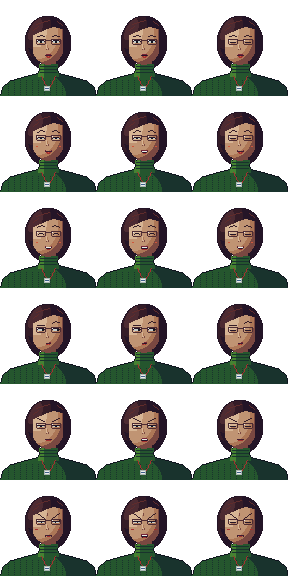
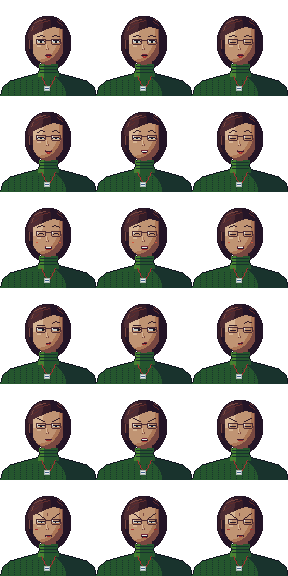
Кит после ревью: крупнее сцена на телефоне, блокнот шторкой, уход в шапке, эмоции различимее

diff --git a/src/game/ui/Showcase.tsx b/src/game/ui/Showcase.tsx
@@ -51,7 +51,7 @@ const CAST: Record<SceneId, Cast> = {
         { label: 'Оклад', value: '160 тыс.' },
         { label: 'Выход', value: '15 декабря' },
         { label: 'Жильё', value: 'квартира на год' },
-        { label: 'Переезд', value: 'через 3 месяца' },
+        { label: 'Переезд', value: 'через 3 мес.' },
       ],
     },
     name: 'Дарина Лукманова',
@@ -72,8 +72,8 @@ const ISSUES_BY_SCENE: Record<SceneId, typeof ISSUES> = {
   office: [
     { title: 'Оклад', options: ['140 тыс.', '150 тыс.', '160 тыс.', '170 тыс.', '180 тыс.'], points: [30, 24, 18, 10, 0] },
     { title: 'Выход', options: ['1 декабря', '15 декабря', '1 января', '15 января'], points: [20, 16, 6, 0] },
-    { title: 'Жильё', options: ['без жилья', 'компенсация', 'квартира на год'], points: [10, 4, 8] },
-    { title: 'Переезд', options: ['сразу', 'через 3 месяца', 'не оплачиваем'], points: [0, 6, 10] },
+    { title: 'Жильё', options: ['без жилья', 'компенсация', 'квартира'], points: [10, 4, 8] },
+    { title: 'Переезд', options: ['сразу', 'через 3 мес.', 'без оплаты'], points: [0, 6, 10] },
   ],
 }
 
@@ -81,7 +81,7 @@ const ISSUES = [
   { title: 'Цена за короб', options: ['212 ₽', '204 ₽', '196 ₽', '188 ₽', '180 ₽'], points: [0, 8, 16, 24, 32] },
   { title: 'Отсрочка платежа', options: ['по факту', '15 дней', '30 дней', '45 дней', '60 дней'], points: [0, 2, 4, 6, 8] },
   { title: 'Срочная допоставка', options: ['за 10 дней', 'за 7 дней', 'за 5 дней', 'за 3 дня', 'за 48 часов'], points: [0, 6, 13, 21, 28] },
-  { title: 'График отгрузок', options: ['раз в месяц', 'раз в две недели', 'раз в неделю'], points: [0, 12, 24] },
+  { title: 'График отгрузок', options: ['раз в месяц', 'раз в 2 недели', 'еженедельно'], points: [0, 12, 24] },
 ]
 
 const SWATCHES: { name: string; v: string; role: string }[] = [
@@ -107,6 +107,7 @@ export default function Showcase() {
   const [talking, setTalking] = useState(false)
   const [turn, setTurn] = useState(4)
   const [xray, setXray] = useState(true)
+  const [notebook, setNotebook] = useState(false)
   const [stamp, setStamp] = useState<null | 'deal' | 'walked' | 'timeout'>(null)
   const [picks, setPicks] = useState([1, 2, 2, 2])
   const [draft, setDraft] = useState('')
@@ -123,8 +124,11 @@ export default function Showcase() {
             <div className="sc-hud">
               <MeetingClock turn={turn} turnLimit={12} />
               <div className="sc-hud-actions">
-                <Button variant="ghost" icon="eye" aria-pressed={xray} onClick={() => setXray(!xray)}>
+                <Button variant={xray ? 'brass' : 'paper'} icon="eye" aria-pressed={xray} onClick={() => setXray(!xray)}>
                   Рентген
+                </Button>
+                <Button variant="ghost" icon="leave" className="sc-leave" aria-label="Встать и уйти">
+                  <span className="sc-leave-label">Уйти</span>
                 </Button>
               </div>
             </div>
@@ -155,17 +159,20 @@ export default function Showcase() {
                 <Button variant="brass" icon="send" type="submit">
                   Сказать
                 </Button>
-                <Button icon="notebook" className="sc-only-mobile">
-                  Блокнот
-                </Button>
-                <Button variant="stamp" icon="leave" className="sc-push-right">
-                  Встать и уйти
+                <Button
+                  icon="notebook"
+                  className="sc-only-mobile"
+                  aria-expanded={notebook}
+                  aria-controls="sc-side"
+                  onClick={() => setNotebook(!notebook)}
+                >
+                  {notebook ? 'Закрыть блокнот' : 'Блокнот'}
                 </Button>
               </div>
             </form>
           </div>
 
-          <aside className="sc-side">
+          <aside id="sc-side" className="sc-side" data-open={notebook}>
             <Notebook
               title="Моё предложение"
               footer={
@@ -174,15 +181,15 @@ export default function Showcase() {
                     Положить на стол
                   </Button>
                   <span className="sc-total">
-                    итого <b>{total}</b>
+                    в мою пользу <b>{total}</b>
                   </span>
                 </>
               }
             >
               <p className="px-note">
                 {scene === 'office'
-                  ? 'Если не договоримся: интегратор на пусконаладку, 1,4 млн. Это 12 очков.'
-                  : 'Если не договоримся: Казань, 212 ₽, отсрочка 30 дней. Это 26 очков.'}
+                  ? 'Запасной вариант: интегратор на пусконаладку за 1,4 млн. Он даёт мне 12, меньше брать нет смысла.'
+                  : 'Запасной вариант: Казань, 212 ₽, отсрочка 30 дней. Он даёт мне 26, меньше брать нет смысла.'}
               </p>
               {issues.map((it, i) => (
                 <IssueStepper

diff --git a/src/game/ui/ui.css b/src/game/ui/ui.css
@@ -20,7 +20,13 @@
   --desk-hi: var(--c-mist);
   --on-desk: var(--c-ink);
   --on-desk-muted: var(--c-steel-3);
-  background-image: none;
+  background-image:
+    repeating-linear-gradient(
+      180deg,
+      transparent 0 calc(5 * var(--u)),
+      color-mix(in srgb, var(--desk-hi) 35%, transparent) calc(5 * var(--u)) calc(6 * var(--u)),
+      transparent calc(6 * var(--u)) calc(15 * var(--u))
+    );
 }
 
 .px-visually-hidden {
@@ -239,7 +245,7 @@
   margin: calc(2 * var(--u)) 0 0;
   color: var(--on-desk-muted);
 }
-@media (pointer: coarse) {
+@media (hover: none), (pointer: coarse) {
   .px-field-hint {
     display: none;
   }
@@ -336,7 +342,7 @@
   font: 700 var(--fs-ui) / var(--lh-ui) var(--f-ui);
   color: var(--c-ink);
   text-align: center;
-  text-wrap: balance;
+  white-space: nowrap;
 }
 .px-issue-points {
   grid-area: pts;
@@ -358,33 +364,27 @@
   margin: 0;
   padding: 0;
   border: 0;
-  background: var(--c-paper-2);
-  color: var(--c-ink);
+  background: transparent;
+  color: var(--pen);
   cursor: pointer;
+  /* стрелка в кружке, обведённом ручкой: пиксельный «круг» из четырёх сторон */
   box-shadow:
-    inset 0 calc(-2 * var(--u)) 0 var(--c-mist),
-    0 calc(-1 * var(--u)) 0 0 var(--c-ink),
-    0 var(--u) 0 0 var(--c-ink),
-    calc(-1 * var(--u)) 0 0 0 var(--c-ink),
-    var(--u) 0 0 0 var(--c-ink);
+    inset 0 0 0 var(--u) var(--pen),
+    inset 0 0 0 calc(2 * var(--u)) var(--c-paper);
+  clip-path: polygon(
+    var(--u) 0, calc(100% - var(--u)) 0, 100% var(--u), 100% calc(100% - var(--u)),
+    calc(100% - var(--u)) 100%, var(--u) 100%, 0 calc(100% - var(--u)), 0 var(--u)
+  );
+}
+.px-step:hover:not(:disabled) {
+  background: var(--c-paper-2);
 }
 .px-step:active:not(:disabled) {
-  transform: translateY(var(--u));
-  box-shadow:
-    0 calc(-1 * var(--u)) 0 0 var(--c-ink),
-    0 var(--u) 0 0 var(--c-ink),
-    calc(-1 * var(--u)) 0 0 0 var(--c-ink),
-    var(--u) 0 0 0 var(--c-ink);
+  background: var(--pen);
+  color: var(--c-paper);
 }
 .px-step:disabled {
-  color: var(--c-mist);
-  background: var(--c-paper);
-  cursor: default;
-  box-shadow:
-    0 calc(-1 * var(--u)) 0 0 var(--c-mist),
-    0 var(--u) 0 0 var(--c-mist),
-    calc(-1 * var(--u)) 0 0 0 var(--c-mist),
-    var(--u) 0 0 0 var(--c-mist);
+  visibility: hidden;
 }
 
 /* ---------- листок «на столе» ---------- */
@@ -425,6 +425,15 @@
 }
 .px-clock svg {
   flex: none;
+}
+@media (max-width: 420px) {
+  .px-clock svg {
+    width: 42px;
+    height: 42px;
+  }
+  .px-clock {
+    gap: calc(3 * var(--u));
+  }
 }
 .px-clock-text {
   display: flex;
@@ -497,7 +506,13 @@
 .px-stamp span {
   --ink-c: var(--c-stamp);
   padding: calc(2 * var(--u)) calc(6 * var(--u));
-  background: var(--c-paper);
+  background-color: var(--c-paper);
+  /* неровный оттиск: редкие непропечатанные точки */
+  background-image:
+    radial-gradient(var(--c-paper-2) 0 var(--u), transparent var(--u)),
+    radial-gradient(var(--c-paper-2) 0 var(--u), transparent var(--u));
+  background-size: calc(11 * var(--u)) calc(7 * var(--u)), calc(17 * var(--u)) calc(13 * var(--u));
+  background-position: 0 0, calc(5 * var(--u)) calc(3 * var(--u));
   color: var(--ink-c);
   font: 700 var(--fs-ui-huge) / 1.25 var(--f-ui);
   text-transform: uppercase;
@@ -512,11 +527,9 @@
     font-size: var(--fs-ui-big);
   }
 }
-.px-stamp--walked span {
-  --ink-c: var(--c-steel-2);
-}
+.px-stamp--walked span,
 .px-stamp--timeout span {
-  --ink-c: var(--c-wood);
+  --ink-c: var(--c-stamp-2);
 }
 @keyframes px-thump {
   0% {

diff --git a/src/game/ui/showcase.css b/src/game/ui/showcase.css
@@ -38,6 +38,11 @@ body {
     display: none;
   }
 }
+@media (max-width: 899px) {
+  .sc-side[data-open='false'] {
+    display: none;
+  }
+}
 
 @media (max-width: 899px) {
   .sc-stage .px-scene-wrap {
@@ -60,6 +65,39 @@ body {
 }
 .sc-hud-actions {
   display: flex;
+  align-items: center;
+  gap: calc(2 * var(--u));
+  --desk-lo: transparent;
+}
+.sc-hud-actions .px-btn {
+  margin-bottom: var(--u);
+}
+.sc-leave {
+  --label: var(--c-coral);
+  text-decoration: none;
+  padding-inline: calc(3 * var(--u));
+}
+[data-desk='office'] .sc-leave {
+  --label: var(--c-stamp);
+}
+@media (max-width: 420px) {
+  .sc-hud-actions .px-btn {
+    padding-inline: calc(4 * var(--u));
+  }
+  .sc-hud-actions {
+    gap: 0;
+  }
+  .sc-leave-label {
+    position: absolute;
+    width: 1px;
+    height: 1px;
+    overflow: hidden;
+    clip-path: inset(50%);
+  }
+}
+/* окно реплики наезжает на низ сцены, как в Ace Attorney */
+.sc-stage .px-dialog {
+  margin-top: calc(-14 * var(--u));
 }
 
 .sc-say {

diff --git a/src/game/ui/Scene.tsx b/src/game/ui/Scene.tsx
@@ -34,8 +34,8 @@ interface Props {
 
 /** Сцена: фон, портрет, стол переднего плана. Масштаб только целый. */
 export function Scene({ scene, character, emotion, talking, maxScale = 6, children }: Props) {
-  // до 12% ширины можно срезать по краям: на телефоне лучше крупный портрет, чем поля
-  const [ref, s] = useIntegerScale(SCENE_W, 1, maxScale, 0.12)
+  // на телефоне лучше крупный портрет, чем поля: разрешаем срезать края сцены до 35% ширины
+  const [ref, s] = useIntegerScale(SCENE_W, 1, maxScale, 0.35)
   const def = SCENES[scene]
   return (
     <div ref={ref} className="px-scene-wrap" style={{ height: SCENE_H * s }}>

diff --git a/src/game/ui/Controls.tsx b/src/game/ui/Controls.tsx
@@ -75,7 +75,11 @@ export function IssueStepper({ title, options, value, onChange, points }: Steppe
           <PixelIcon name="right" px={2} />
         </button>
       </div>
-      {p !== undefined && <span className={`px-issue-points${p < 0 ? ' is-neg' : ''}`}>{p > 0 ? `+${p}` : p}</span>}
+      {p !== undefined && (
+        <span className={`px-issue-points${p < 0 ? ' is-neg' : ''}`} title="сколько это даёт вам">
+          {p > 0 ? `+${p}` : p}
+        </span>
+      )}
     </div>
   )
 }
@@ -149,6 +153,7 @@ interface StampProps {
 }
 
 const STAMP_TEXT = { deal: 'По рукам', walked: 'Без сделки', timeout: 'Время вышло' }
+
 
 /** Штамп поверх сцены в конце встречи. */
 export function Stamp({ kind }: StampProps) {

diff --git a/tools/art/portraits.py b/tools/art/portraits.py
@@ -180,7 +180,7 @@ def build_rinat(emotion, frame):
     put(c, 34, 82, ['gg', 'Gg'], {'g': 22, 'G': 20})
 
     # шея
-    neck = poly_mask([(38, 56), (58, 56), (58, 74), (48, 77), (38, 74)])
+    neck = poly_mask([(40, 58), (56, 58), (57, 73), (48, 76), (39, 73)])
     paint(c, neck, 14)
     paint(c, neck & (ys < 66), 13)
 
@@ -193,7 +193,7 @@ def build_rinat(emotion, frame):
     # голова
     head = ellipse_mask(cx, cy, rx, ry, p=2.0, p_low=2.7)
     lam = shade_ellipsoid(cx - 3, cy - 4, rx + 3, ry + 2)
-    paint(c, head, band(lam, [0.1, 0.36, 0.82], [13, 14, 15, 16]))
+    paint(c, head, band(lam, [0.08, 0.3, 0.9], [13, 14, 15, 16]))
     # подбородок и скулы
     paint(c, head & ellipse_mask(cx - 1, cy + 21, 5, 2.2), 15)
     paint(c, head & ellipse_mask(cx - 11, cy + 4, 2, 1.2), 16)
@@ -242,7 +242,7 @@ def build_rinat(emotion, frame):
     # носогубные складки
     line(c, [(40, 49), (41, 54)], 14)
     line(c, [(56, 49), (55, 54)], 13)
-    if emotion in ('pleased', 'happy'):
+    if emotion == 'happy':
         put(c, 35, 46, ['rr'], E)
         put(c, 59, 46, ['rr'], E)
     if emotion == 'angry':
@@ -254,7 +254,7 @@ def build_rinat(emotion, frame):
         'pleased': ['MM.....MM', '.MtttttM.', '..MMMMM..'],
         'annoyed': ['.........', '.MMMMMMM.', 'M.......M'],
         'thinking':   ['......MM.', 'MMMMMM...', '..kkk....'],
-        'happy':   ['MM.....MM', '.MtttttM.', '..MoooM..'],
+        'happy':   ['M.......M', 'MMtttttMM', '.MoooooM.', '..MMMMM..'],
         'angry':   ['MMMMMMMMM', 'MtMtMtMtM', '.MMMMMMM.'],
     }
     talk = {
@@ -262,7 +262,7 @@ def build_rinat(emotion, frame):
         'pleased': ['MMMMMMMMM', '.MtttttM.', '..MoooM..'],
         'annoyed': ['.MMMMMMM.', 'MtttttttM', '.MMMMMMM.'],
         'thinking':   ['....MMMM.', '.MMMooM..', '..MMMM...'],
-        'happy':   ['MMMMMMMMM', 'MtttttttM', '.MoooooM.', '..MMMMM..'],
+        'happy':   ['M.......M', 'MMtttttMM', '.MtoooM..', '..MMMMM..'],
         'angry':   ['MMMMMMMMM', 'MtttttttM', 'MoooooooM', '.MMMMMMM.'],
     }
     put(c, 44, 54, talk[emotion] if frame == 'talk' else mouths[emotion], E)
@@ -310,7 +310,7 @@ def build_olga(emotion, frame):
 
     head = ellipse_mask(cx, cy, rx, ry, p=2.0, p_low=1.8)
     lam = shade_ellipsoid(cx - 3, cy - 4, rx + 3, ry + 2)
-    paint(c, head, band(lam, [0.1, 0.36, 0.82], [13, 14, 15, 16]))
+    paint(c, head, band(lam, [0.08, 0.3, 0.9], [13, 14, 15, 16]))
     paint(c, head & ellipse_mask(cx - 9, cy + 4, 2, 1.2), 16)
 
     # чёлка с пробором и боковые пряди
@@ -328,6 +328,9 @@ def build_olga(emotion, frame):
     line(c, [(part, 19), (part - 1, 22)], 24)
     for pts in ([(36, 24), (42, 22), (49, 20)], [(33, 30), (38, 26)], [(57, 21), (62, 25)]):
         line(c, pts, 19)
+    # блики на каре
+    for pts in ([(34, 23), (39, 20), (45, 19)], [(31, 30), (33, 26)], [(29, 40), (29, 48)], [(58, 19), (61, 21)]):
+        line(c, pts, 13)
 
     E = {'w': 44, 'p': 37, 'L': 24, 's': 14, 'h': 16, 'k': 15, 'S': 13,
          'm': 26, 'M': 25, 'r': 27, 'R': 28, 't': 45, 'o': 24, 'f': 12, 'g': 45}
@@ -355,9 +358,11 @@ def build_olga(emotion, frame):
     line(c, [(eyL + 9, ey), (eyR - 1, ey)], 12)
     c[ey, eyL] = 45
     c[ey, eyR] = 45
+    c[ey + 1, eyL] = 44
+    c[ey + 1, eyR] = 44
 
     put(c, 46, 44, ['h..', 'hs.', 'hs.', 'hs.', 'hhS', 'S.S'], E)
-    if emotion in ('pleased', 'happy'):
+    if emotion == 'happy':
         put(c, 36, 50, ['RR'], E)
         put(c, 59, 50, ['RR'], E)
     if emotion == 'angry':
@@ -370,7 +375,7 @@ def build_olga(emotion, frame):
         'pleased': ['m.....m', 'MMMMMMM', '.rrRrr.', '..rrr..'],
         'annoyed': ['.......', 'MMMMMMM', '.rrrrr.', '.......'],
         'thinking':   ['....mm.', '.MMMMM.', '.rrRr..', '.......'],
-        'happy':   ['m.....m', 'MtttttM', '.MoooM.', '..rrr..'],
+        'happy':   ['m.....m', 'MtttttM', 'MoooooM', '.rrrrr.'],
         'angry':   ['.......', 'MMMMMMM', 'M.rrr.M', '.......'],
     }
     talk = {
